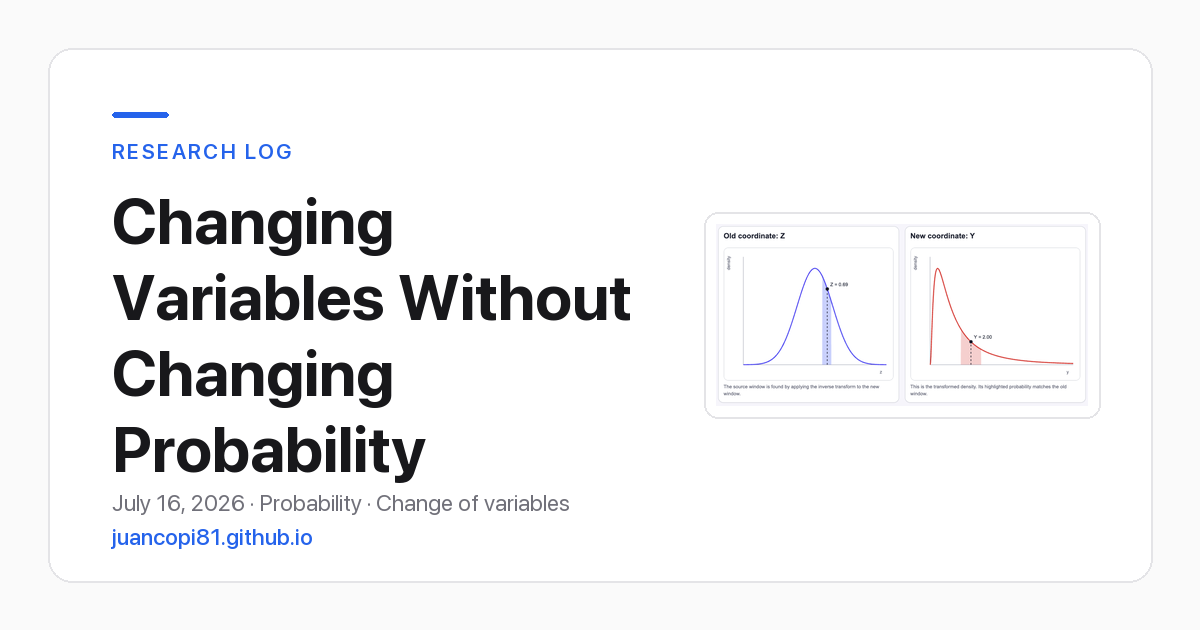
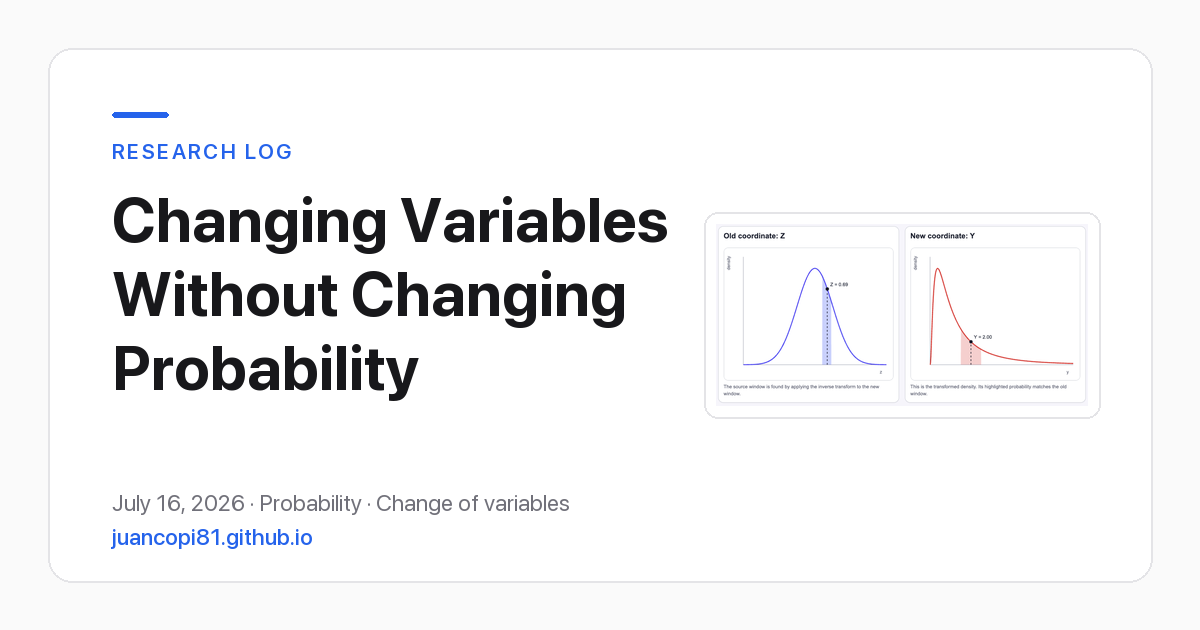
Fix cramped four-line titles and guard against broken card links
Capping titles at three lines everywhere: the one four-line card
(Changing Variables Without Changing Probability) had its descenders
running into the meta line.

Also makes the workflow fail safe. The template now points at
default.png rather than a placeholder filename, so a post published
before the generator runs shows a generic card instead of a 404, and
the generator now reports any post whose og:image does not match its
own card.

Changed region(s): [[0.0925, 0.3016, 0.555, 0.5429], [0.0925, 0.5429, 0.37, 0.7841], [0.0925, 0.3016, 0.1233, 0.3317]]

diff --git a/templates/post-template.html b/templates/post-template.html
@@ -15,7 +15,7 @@
   <meta property="og:description" content="One or two sentences summarizing the question and what the post tries to clarify." />
   <meta property="og:url" content="https://juancopi81.github.io/posts/YYYY-MM-DD-short-title.html" />
   <meta property="og:locale" content="en_US" />
-  <meta property="og:image" content="https://juancopi81.github.io/assets/social/YYYY-MM-DD-short-title.png" />
+  <meta property="og:image" content="https://juancopi81.github.io/assets/social/default.png" />
   <meta property="og:image:width" content="1200" />
   <meta property="og:image:height" content="630" />
   <meta property="og:image:alt" content="Social card for Post Title" />
@@ -27,7 +27,7 @@
   <meta name="twitter:creator" content="@juancopi81" />
   <meta name="twitter:title" content="Post Title" />
   <meta name="twitter:description" content="One or two sentences summarizing the question and what the post tries to clarify." />
-  <meta name="twitter:image" content="https://juancopi81.github.io/assets/social/YYYY-MM-DD-short-title.png" />
+  <meta name="twitter:image" content="https://juancopi81.github.io/assets/social/default.png" />
   <meta name="twitter:image:alt" content="Social card for Post Title" />
   <link rel="stylesheet" href="../styles.css" />
   <script>

diff --git a/scripts/generate_social_images.py b/scripts/generate_social_images.py
@@ -20,6 +20,7 @@ from PIL import Image, ImageDraw, ImageFont
 
 ROOT = Path(__file__).resolve().parent.parent
 OUT = ROOT / "assets" / "social"
+SITE = "https://juancopi81.github.io"
 
 W, H = 1200, 630
 MARGIN = 48          # gap between the canvas edge and the inner card
@@ -119,7 +120,7 @@ def render(out_name: str, *, eyebrow: str, title: str, meta: str,
         paste_figure(img, figure)
 
     y = draw_eyebrow(draw, x, MARGIN + PAD, eyebrow)
-    fnt, lines, size = fit_title(draw, title, text_width, 4 if figure else 3)
+    fnt, lines, size = fit_title(draw, title, text_width, 3)
     for line in lines:
         draw.text((x, y), line, font=fnt, fill=TEXT)
         y += int(size * 1.2)
@@ -182,6 +183,17 @@ def main() -> None:
     for path in made:
         print(f"{path.relative_to(ROOT)}  ({path.stat().st_size // 1024} KB)")
     print(f"\n{len(made)} cards written to {OUT.relative_to(ROOT)}/")
+
+    stale = []
+    for post in sorted((ROOT / "posts").glob("*.html")):
+        want = f"{SITE}/assets/social/{post.stem}.png"
+        if meta_of(read(post), "og:image") != want:
+            stale.append(post.name)
+    if stale:
+        print("\nThese posts do not point at their own card yet. Set og:image and")
+        print("twitter:image to the matching URL, or the preview will 404:")
+        for name in stale:
+            print(f"  {name}  ->  {SITE}/assets/social/{Path(name).stem}.png")
 
 
 if __name__ == "__main__":
